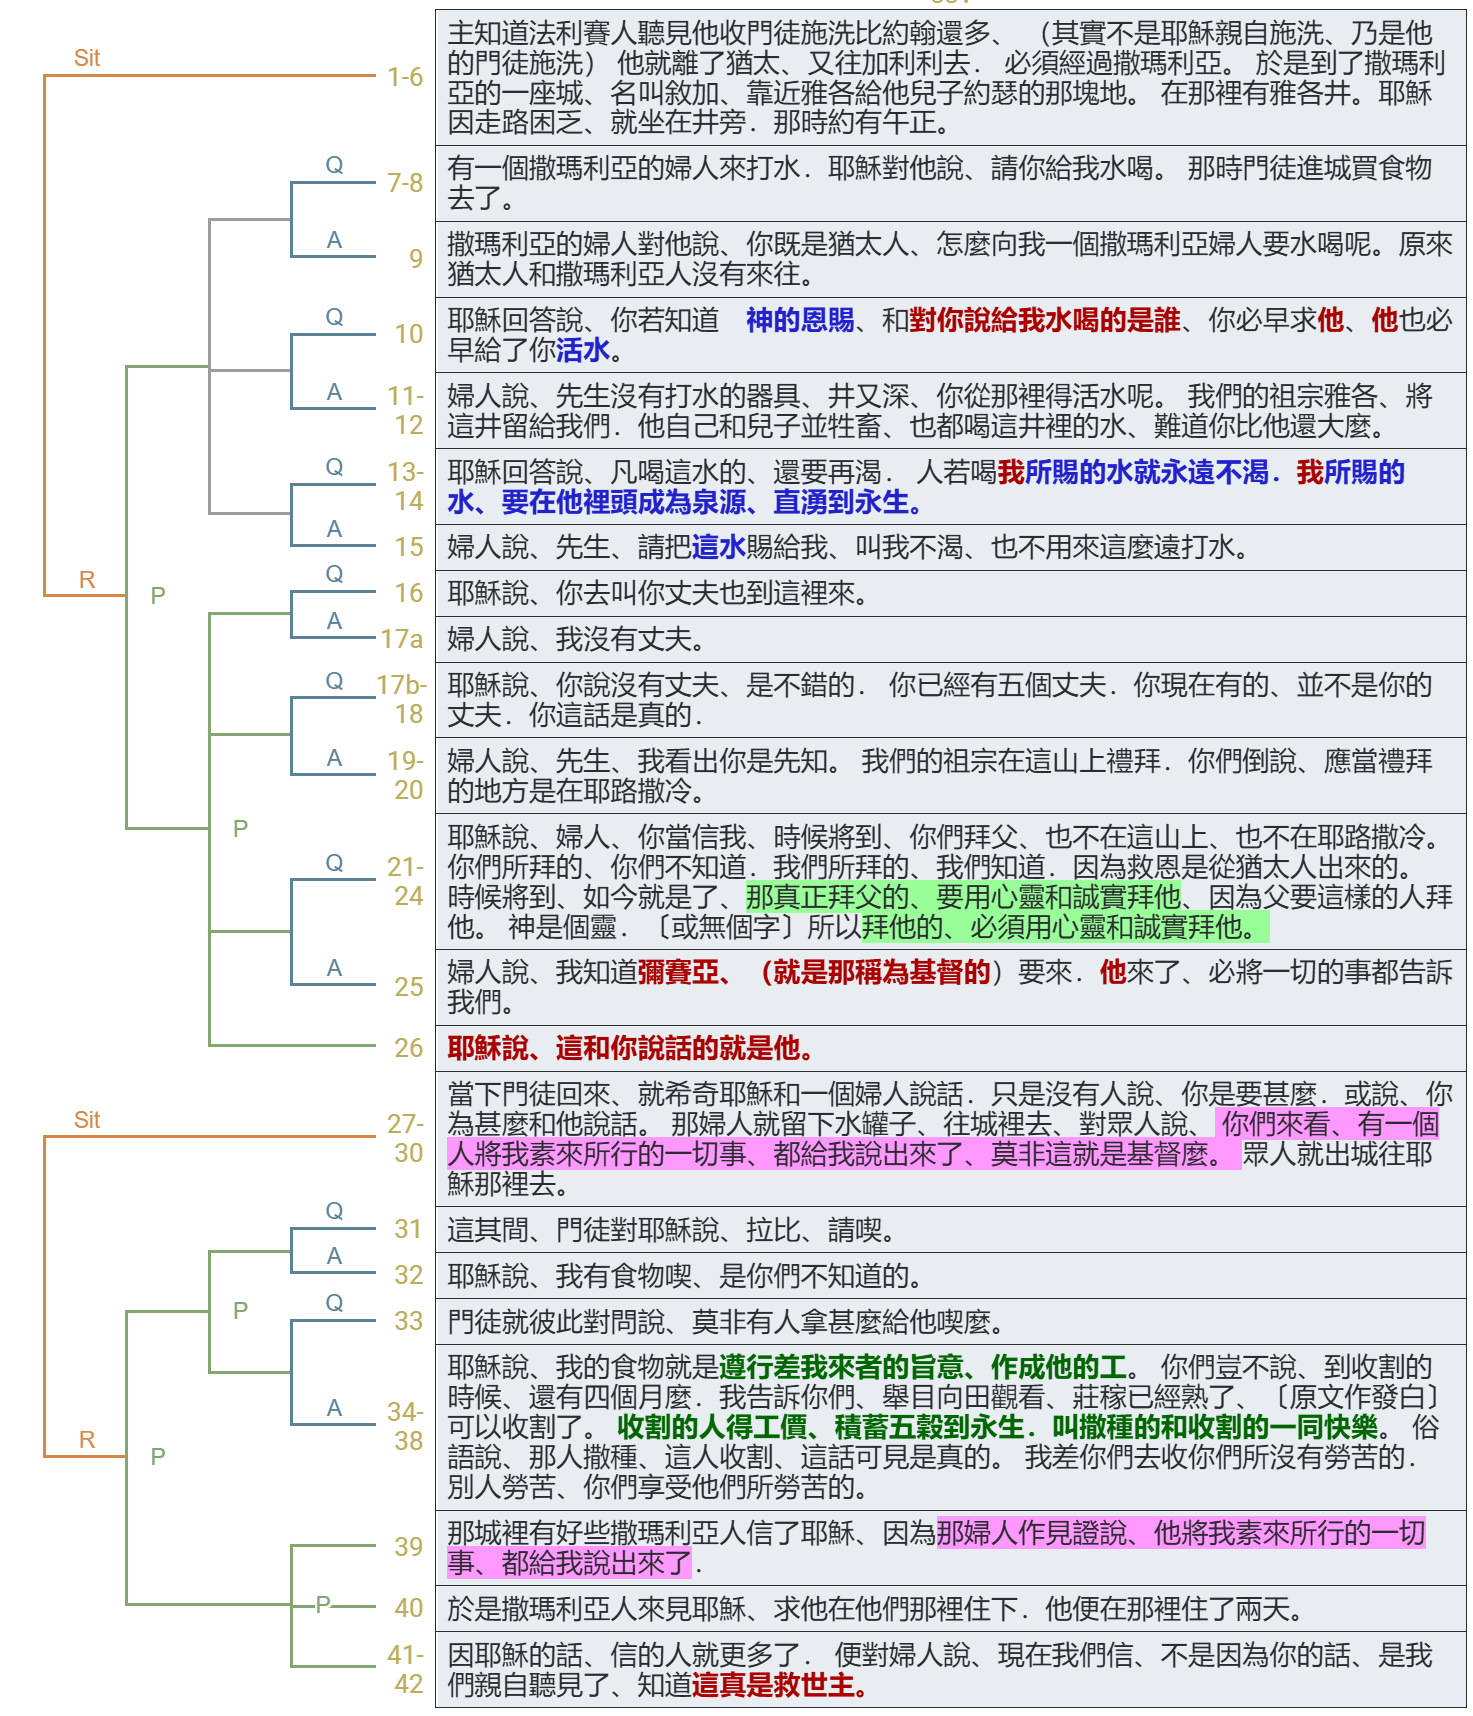
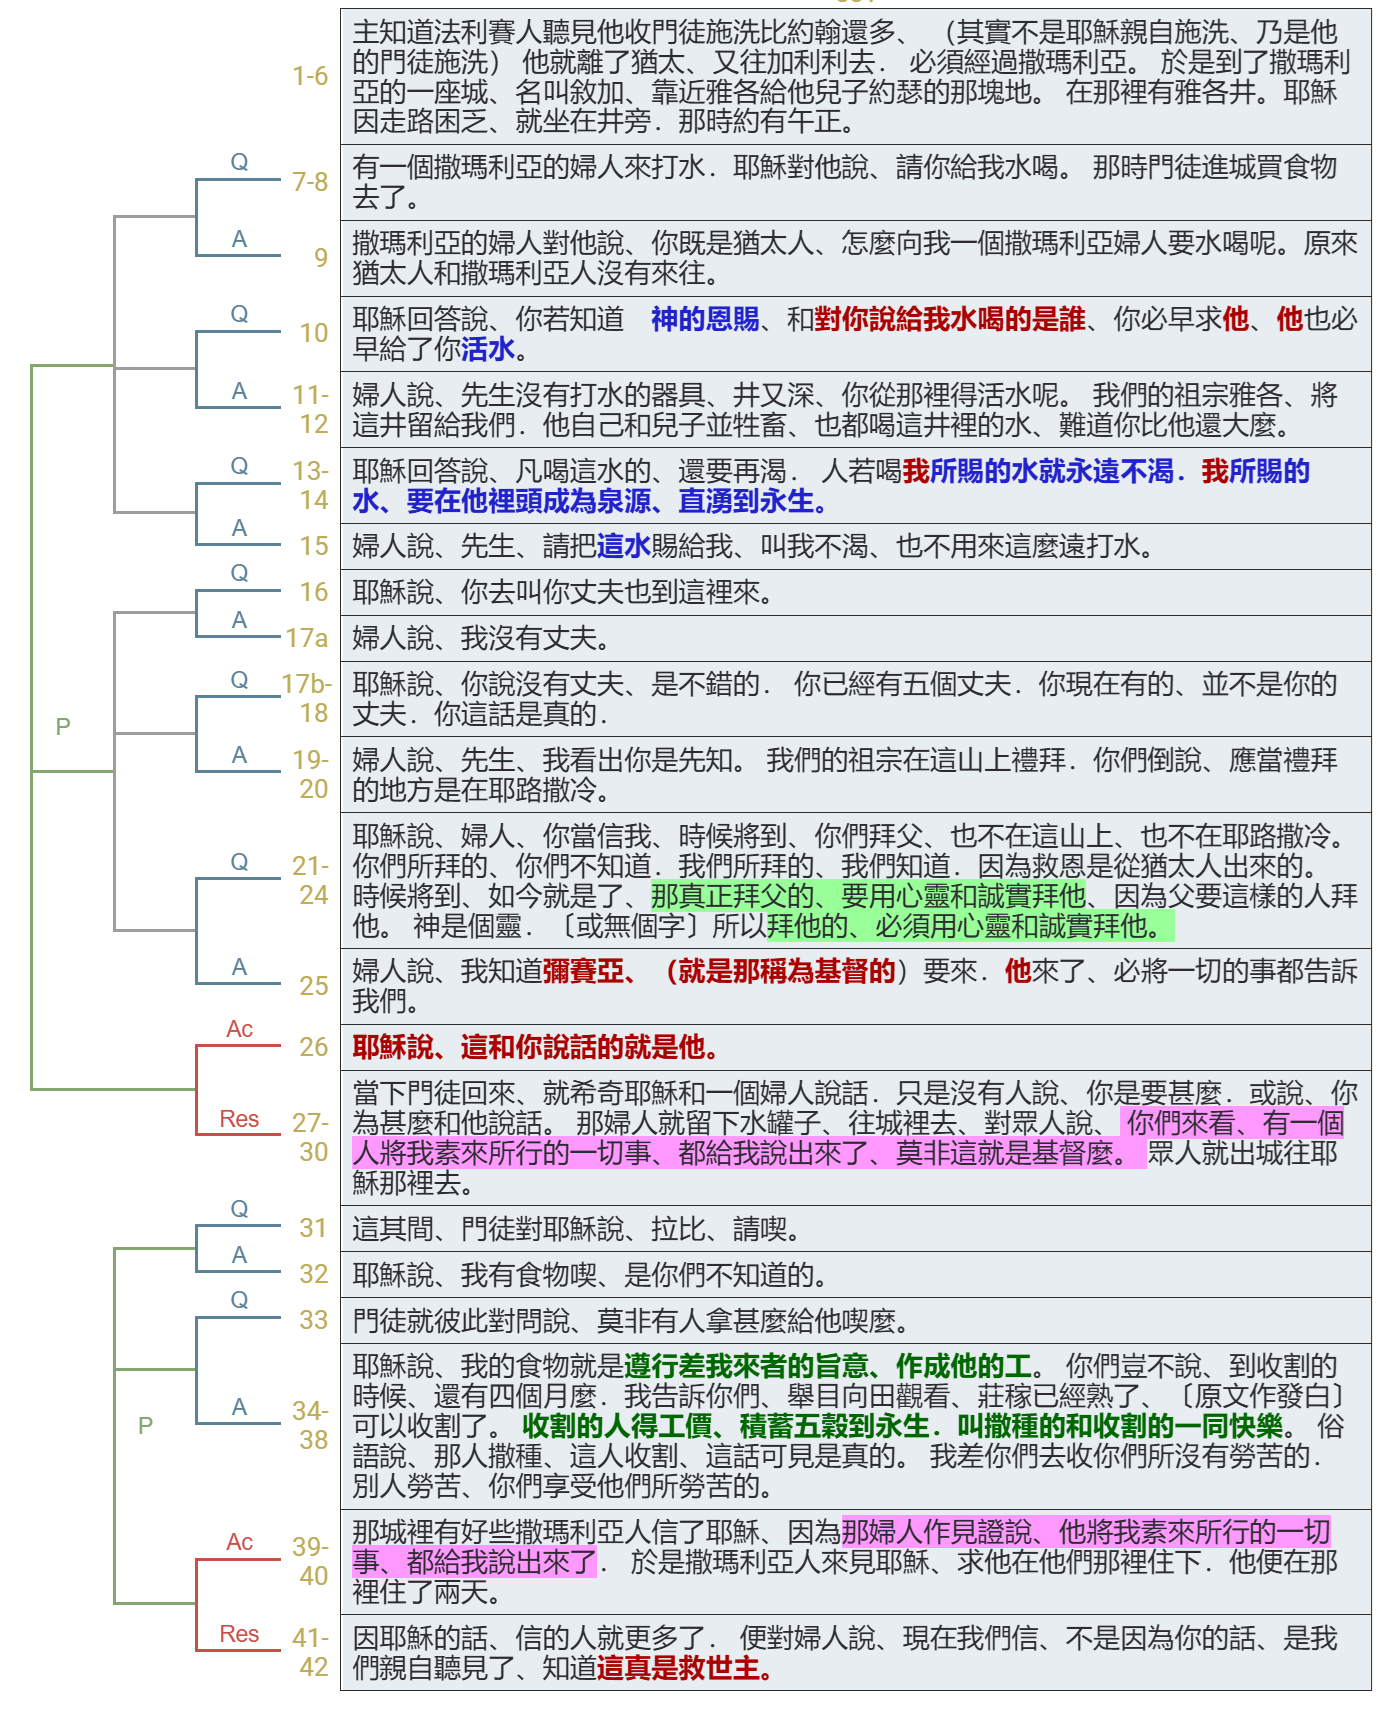
vault backup: 2026-07-25 12:34:59
Affected files:
.obsidian/workspace.json
Joh.4.1-42.md
images/Pasted image 20260723134355.png
images/Pasted image 20260723144316.png

diff --git a/Joh.4.1-42.md b/Joh.4.1-42.md
@@ -29,10 +29,7 @@
  
 
 ## 語意圖析 (Semantic Diagram)
-- 大段結構
-	- ![images/Pasted image 20260723134355.png](images/Pasted%20image%2020260723134355.png)
-- 小段結構
-	- ![images/Pasted image 20260723144316.png](images/Pasted%20image%2020260723144316.png)
+ ![images/Pasted image 20260723144316.png](images/Pasted%20image%2020260723144316.png)
 
 
 ## 大綱 (Outline)
@@ -53,18 +50,19 @@
 	- 約4:4 耶穌不是『必須』，而是刻意⇒ 為了讓你認識祂！**4:26 這和你說話的就是他！**
 		- 三條路：直行，3天；繞道約旦河東、走耶利哥，5天；沿海大道，6天——大多數正統猶太人走約旦河東。
 		- 不是為了喝水 ... 沒喝；不是為了吃 ... 沒吃——而是為了這個婦人，為了門徒，更為了撒瑪利亞人 (約4:42)
-- (1) ==永遠不渴 (4:7-26)==兩個重點：**4:10 神的恩賜、給你活水的是誰**
-	- (1a) 神的恩賜 = **永恆的滿足！**
+- (1) ==永遠不渴 (4:7-30)==
+	- 六輪對話，兩個重點 (4:10 神的恩賜、給你活水的是誰)，一個行動！
+		- 
+	- (1a) 神的恩賜 = **活水 = 聖靈！**
 		- 肉體的渴 → 心靈的渴；今生的渴 → 永恆的渴
-			- **4:14 人若喝我所賜的水就永遠不渴。我所賜的水要在他裡頭成為泉源，直湧到永生。** 
+			- 法國哲學家巴斯卡就說過：人的內心有個無底洞，只有上帝自己才能填滿！
 			- 是從現在開始，一直到進入永生，永恆的滿足！是每個人，包括信徒在內，每時每刻都需要的滿足！
-		- ==活水 = 聖靈！==
-			- 約7:37-39  37 節期的末日，就是最大之日，耶穌站著高聲說：「人若渴了，可以到我這裏來喝。 38 信我的人就如經上所說：『從他腹中==要流出活水的江河來==。』」 39 耶穌這話是指著信他之人==要受聖靈==說的。那時還沒有賜下聖靈來，因為耶穌尚未得著榮耀。 
+		- 約7:37-39  37 節期的末日，就是最大之日，耶穌站著高聲說：「人若渴了，可以到我這裏來喝。 38 信我的人就如經上所說：『從他腹中==要流出活水的江河來==。』」 39 耶穌這話是指著信他之人==要受聖靈==說的。那時還沒有賜下聖靈來，因為耶穌尚未得著榮耀。 
 	- (1b) 給你活水的是誰
 		- 婦人的理解：4:19 先知→4:25 彌賽亞=基督→4:26 耶穌→4:⇒4:42 救世主！
 		- 耶穌的暗示：**4:26 ἐγώ εἰμι 我是！**
 	- (1c) 你要怎麼回應他
-		- 
+	- 
 - (2) ==永遠不餓 (4:27-42)==
 	- 2(a) 神的賞賜 = 
 
